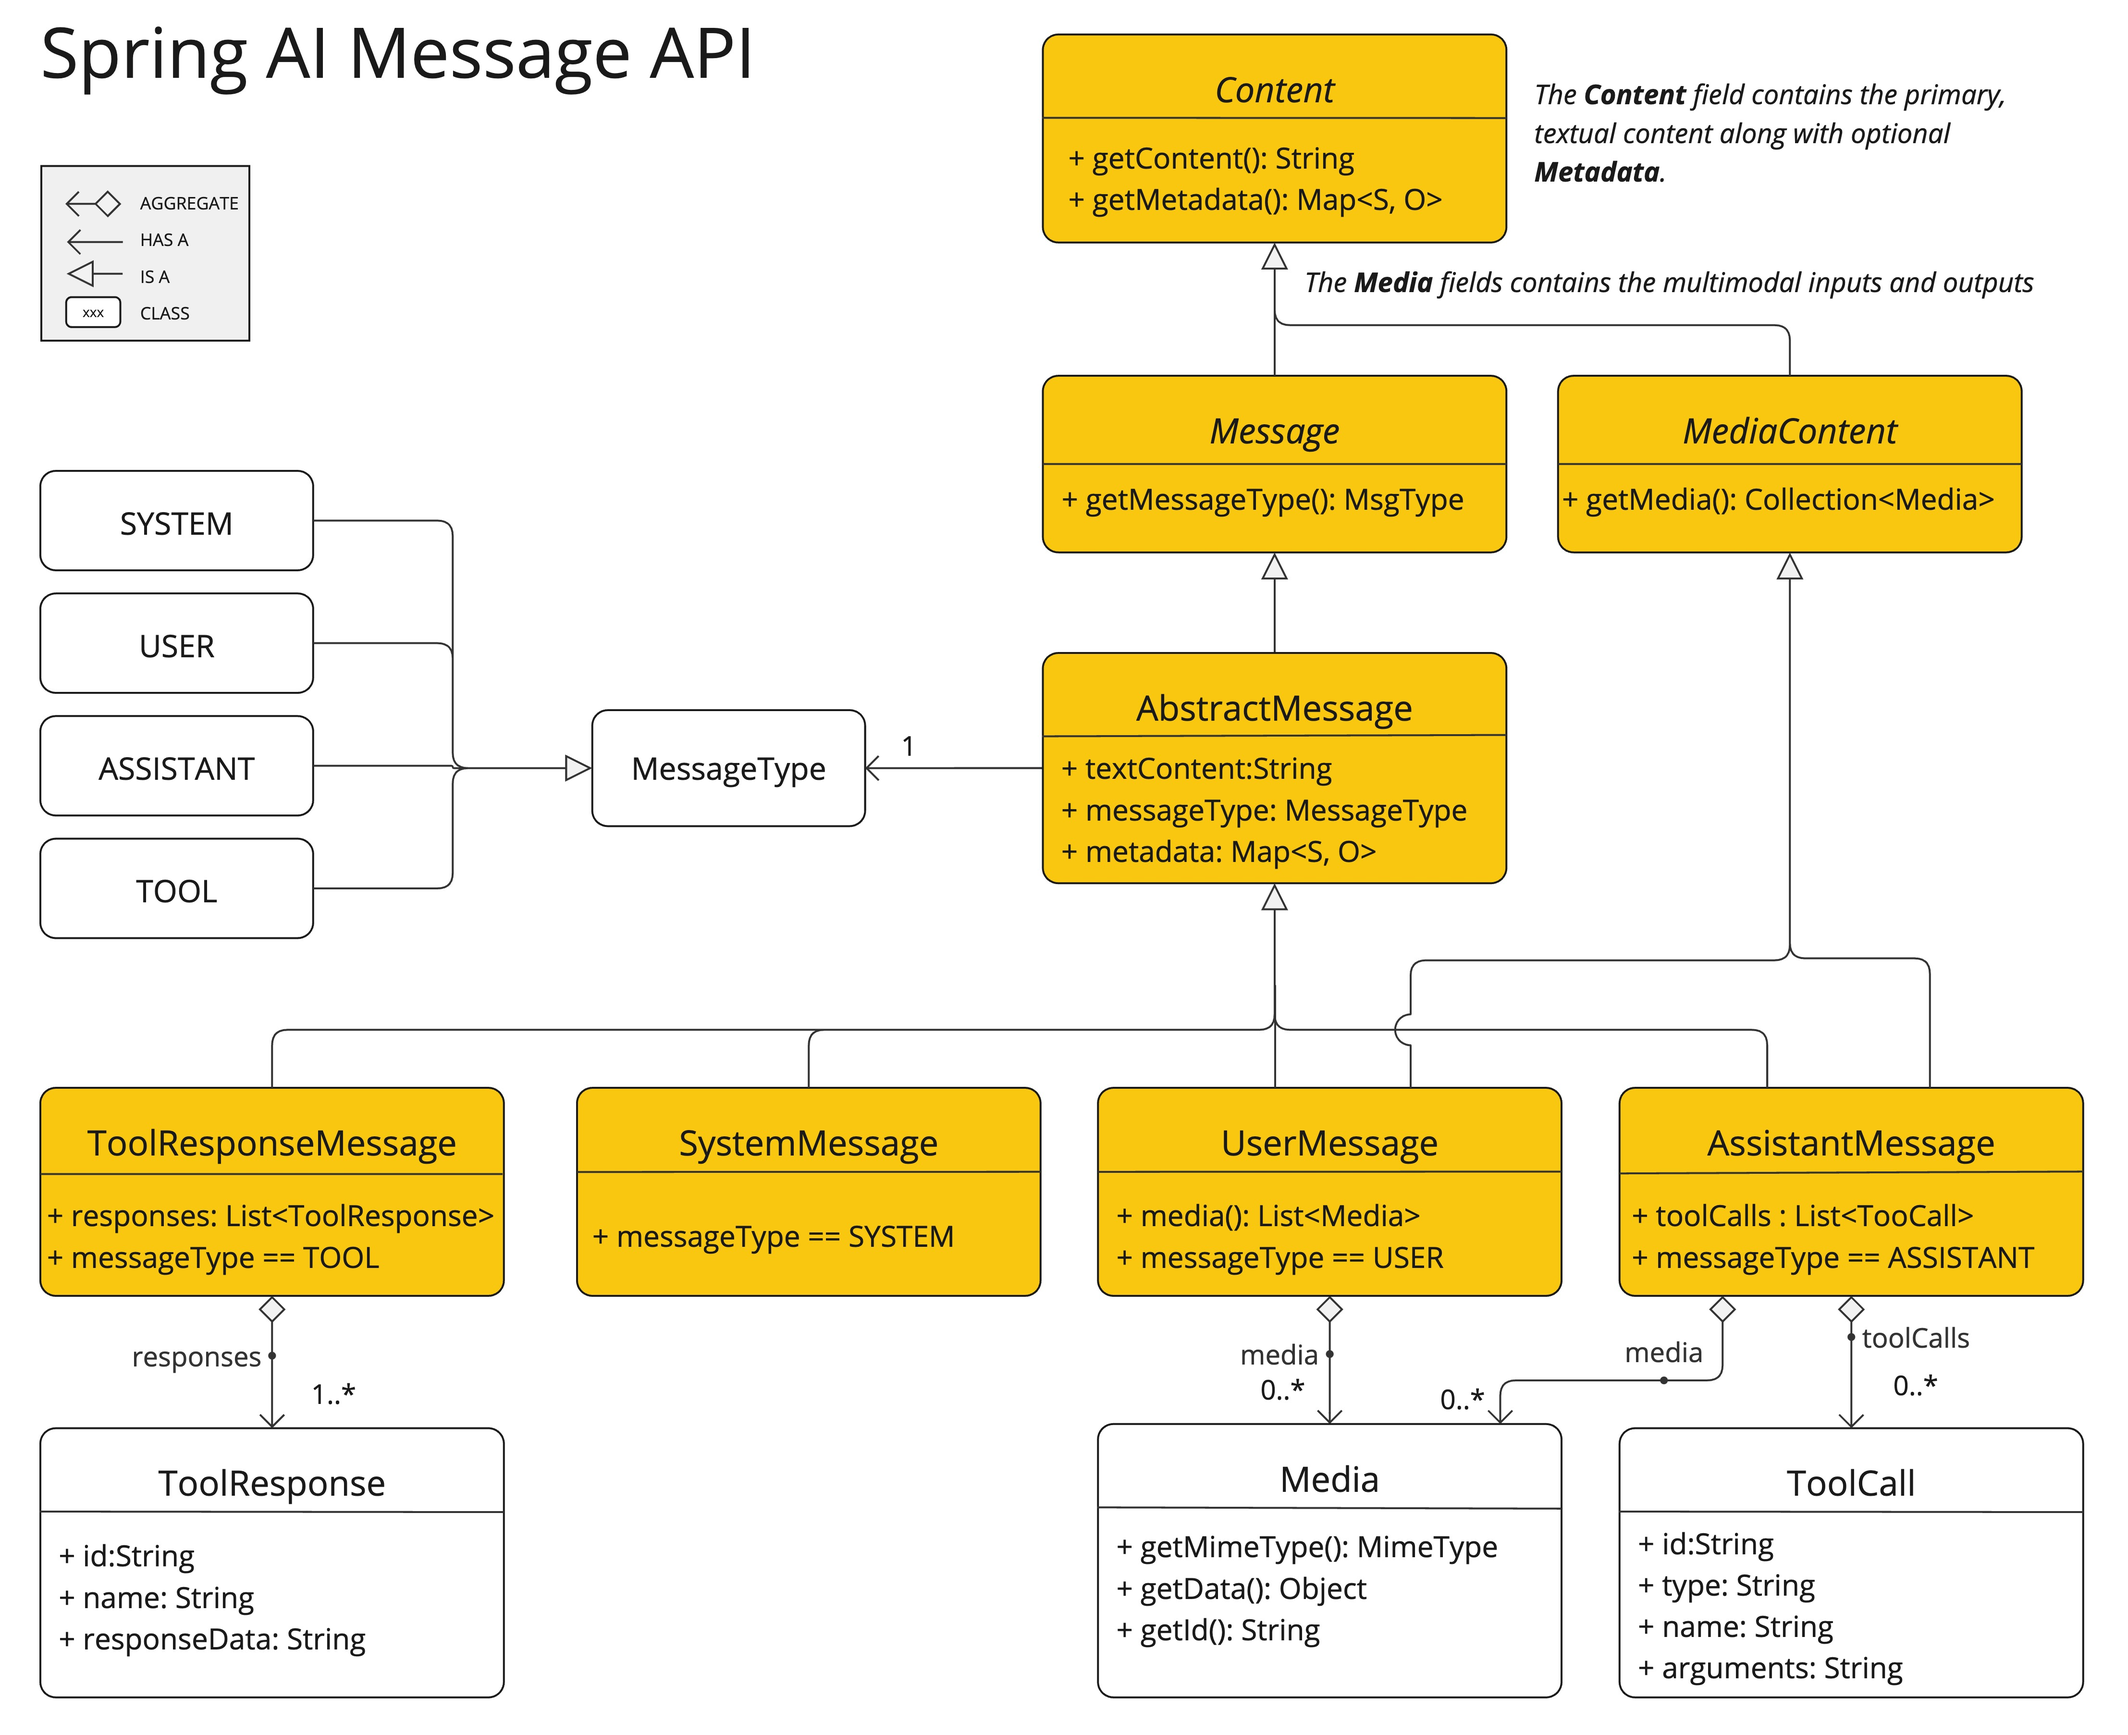
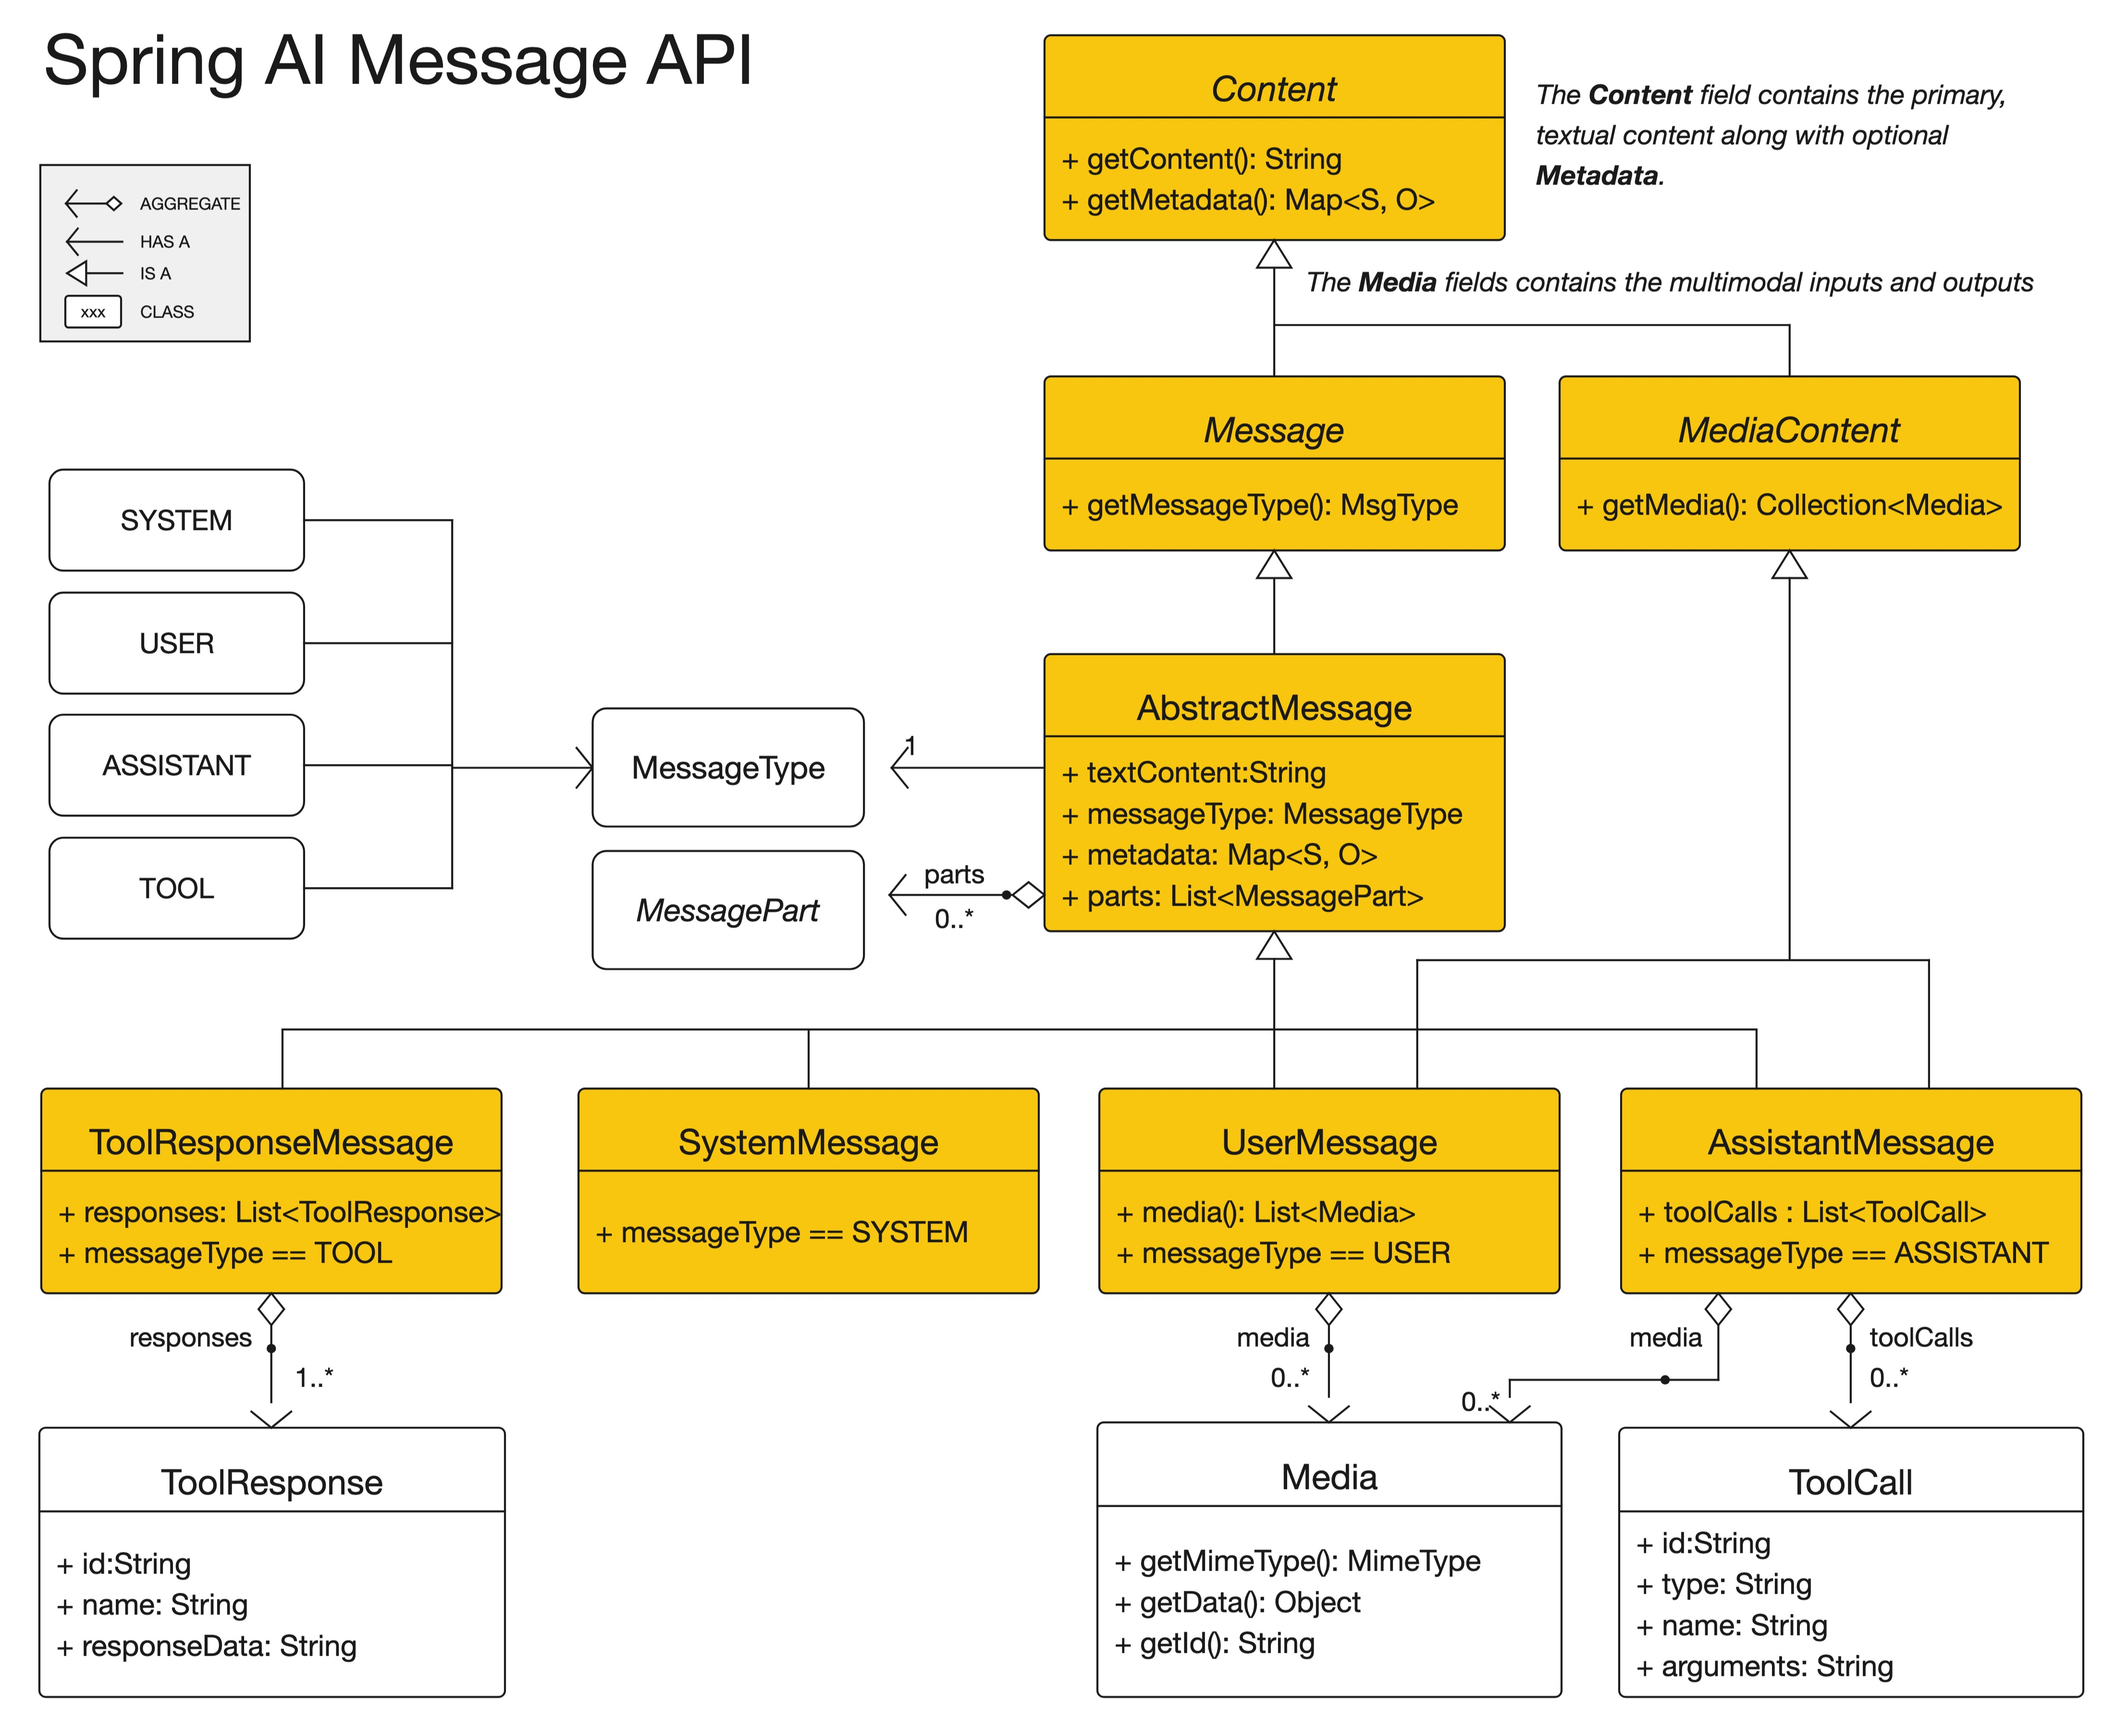
Address documentation
Seal the MessagePart interface, rework the joinText implementation with Java Streams API

diff --git a/models/spring-ai-bedrock-converse/src/test/java/org/springframework/ai/bedrock/converse/BedrockConverseUsageAggregationTests.java b/models/spring-ai-bedrock-converse/src/test/java/org/springframework/ai/bedrock/converse/BedrockConverseUsageAggregationTests.java
@@ -87,7 +87,7 @@ public class BedrockConverseUsageAggregationTests {
 		var result = this.chatModel.call(new Prompt("text"));
 
 		assertThat(result).isNotNull();
-		assertThat(result.getResult().getOutput().getText()).isSameAs("Response Content Block");
+		assertThat(result.getResult().getOutput().getText()).isEqualTo("Response Content Block");
 
 		assertThat(result.getMetadata().getUsage().getPromptTokens()).isEqualTo(16);
 		assertThat(result.getMetadata().getUsage().getCompletionTokens()).isEqualTo(14);
@@ -162,7 +162,7 @@ public class BedrockConverseUsageAggregationTests {
 
 		assertThat(result).isNotNull();
 		assertThat(result.getResult().getOutput().getText())
-			.isSameAs(converseResponseFinal.output().message().content().get(0).text());
+			.isEqualTo(converseResponseFinal.output().message().content().get(0).text());
 
 		assertThat(result.getMetadata().getUsage().getPromptTokens()).isEqualTo(540);
 		assertThat(result.getMetadata().getUsage().getCompletionTokens()).isEqualTo(106);
@@ -198,7 +198,7 @@ public class BedrockConverseUsageAggregationTests {
 		var result = this.chatModel.call(new Prompt("text"));
 
 		assertThat(result).isNotNull();
-		assertThat(result.getResult().getOutput().getText()).isSameAs("Response with cache metrics");
+		assertThat(result.getResult().getOutput().getText()).isEqualTo("Response with cache metrics");
 
 		// Verify standard usage metrics
 		assertThat(result.getMetadata().getUsage().getPromptTokens()).isEqualTo(100);

diff --git a/models/spring-ai-deepseek/src/test/java/org/springframework/ai/deepseek/DeepSeekRetryTests.java b/models/spring-ai-deepseek/src/test/java/org/springframework/ai/deepseek/DeepSeekRetryTests.java
@@ -88,7 +88,7 @@ public class DeepSeekRetryTests {
 		var result = this.chatModel.call(new Prompt("text"));
 
 		assertThat(result).isNotNull();
-		assertThat(result.getResult().getOutput().getText()).isSameAs("Response");
+		assertThat(result.getResult().getOutput().getText()).isEqualTo("Response");
 		assertThat(this.retryListener.onSuccessRetryCount).isEqualTo(1);
 		assertThat(this.retryListener.onErrorRetryCount).isEqualTo(2);
 	}
@@ -116,7 +116,7 @@ public class DeepSeekRetryTests {
 		var result = this.chatModel.call(new Prompt("text"));
 
 		assertThat(result).isNotNull();
-		assertThat(result.getResult().getOutput().getText()).isSameAs("Response");
+		assertThat(result.getResult().getOutput().getText()).isEqualTo("Response");
 		assertThat(this.retryListener.onSuccessRetryCount).isEqualTo(1);
 		assertThat(this.retryListener.onErrorRetryCount).isEqualTo(2);
 	}

diff --git a/spring-ai-model/src/main/java/org/springframework/ai/chat/messages/AbstractMessage.java b/spring-ai-model/src/main/java/org/springframework/ai/chat/messages/AbstractMessage.java
@@ -120,12 +120,11 @@ public abstract class AbstractMessage implements Message {
 		if (parts.isEmpty()) {
 			return null;
 		}
-		List<TextPart> textParts = parts.stream().filter(TextPart.class::isInstance).map(TextPart.class::cast).toList();
-		if (textParts.size() == 1) {
-			// Common case: hand back the part's own string instance rather than a copy.
-			return textParts.get(0).text();
-		}
-		return textParts.stream().map(TextPart::text).collect(Collectors.joining());
+		return parts.stream()
+			.filter(TextPart.class::isInstance)
+			.map(TextPart.class::cast)
+			.map(TextPart::text)
+			.collect(Collectors.joining());
 	}
 
 	/**

diff --git a/spring-ai-model/src/main/java/org/springframework/ai/chat/messages/part/MessagePart.java b/spring-ai-model/src/main/java/org/springframework/ai/chat/messages/part/MessagePart.java
@@ -46,7 +46,8 @@ import org.jspecify.annotations.Nullable;
 		@JsonSubTypes.Type(value = MediaPart.class, name = "media"),
 		@JsonSubTypes.Type(value = UnknownPart.class, name = "unknown") })
 @JsonIgnoreProperties(ignoreUnknown = true)
-public interface MessagePart {
+public sealed interface MessagePart
+		permits MediaPart, ReasoningPart, TextPart, ToolCallPart, ToolResultPart, UnknownPart {
 
 	/**
 	 * Provider-owned data that must be replayed verbatim to the same provider, such as a

diff --git a/models/spring-ai-ollama/src/test/java/org/springframework/ai/ollama/OllamaRetryTests.java b/models/spring-ai-ollama/src/test/java/org/springframework/ai/ollama/OllamaRetryTests.java
@@ -95,7 +95,7 @@ class OllamaRetryTests {
 		var result = this.chatModel.call(new Prompt(promptText));
 
 		assertThat(result).isNotNull();
-		assertThat(result.getResult().getOutput().getText()).isSameAs("Response");
+		assertThat(result.getResult().getOutput().getText()).isEqualTo("Response");
 		assertThat(this.retryListener.onSuccessRetryCount).isEqualTo(1);
 		assertThat(this.retryListener.onErrorRetryCount).isEqualTo(2);
 	}

diff --git a/models/spring-ai-mistral-ai/src/test/java/org/springframework/ai/mistralai/MistralAiRetryTests.java b/models/spring-ai-mistral-ai/src/test/java/org/springframework/ai/mistralai/MistralAiRetryTests.java
@@ -108,7 +108,7 @@ class MistralAiRetryTests {
 		assertThat(response).isNotNull();
 		var result = response.getResult();
 		assertThat(result).isNotNull();
-		assertThat(result.getOutput().getText()).isSameAs("Response");
+		assertThat(result.getOutput().getText()).isEqualTo("Response");
 		assertThat(this.retryListener.onSuccessRetryCount).isEqualTo(1);
 		assertThat(this.retryListener.onErrorRetryCount).isEqualTo(2);
 	}

diff --git a/spring-ai-model/src/test/java/org/springframework/ai/chat/messages/UserMessagePartsTests.java b/spring-ai-model/src/test/java/org/springframework/ai/chat/messages/UserMessagePartsTests.java
@@ -102,7 +102,7 @@ class UserMessagePartsTests {
 		UserMessage message = new UserMessage("hello");
 
 		assertThat(message.getParts()).containsExactly(TextPart.of("hello"));
-		assertThat(message.getText()).isSameAs("hello");
+		assertThat(message.getText()).isEqualTo("hello");
 	}
 
 	@Test
